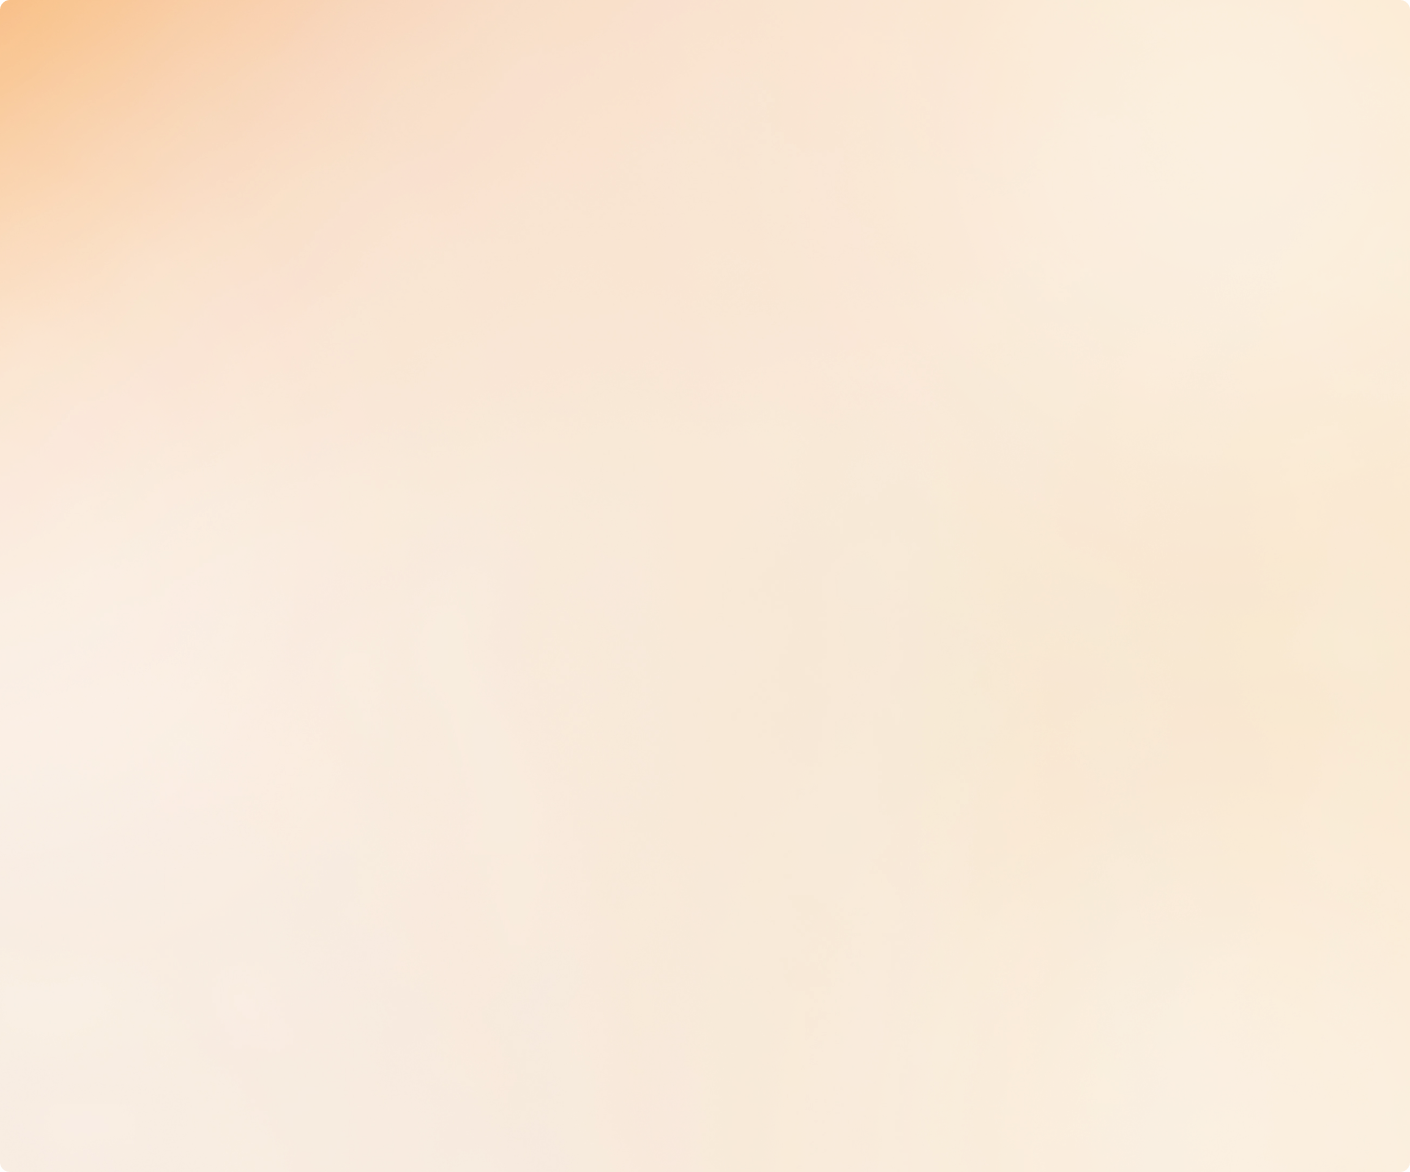
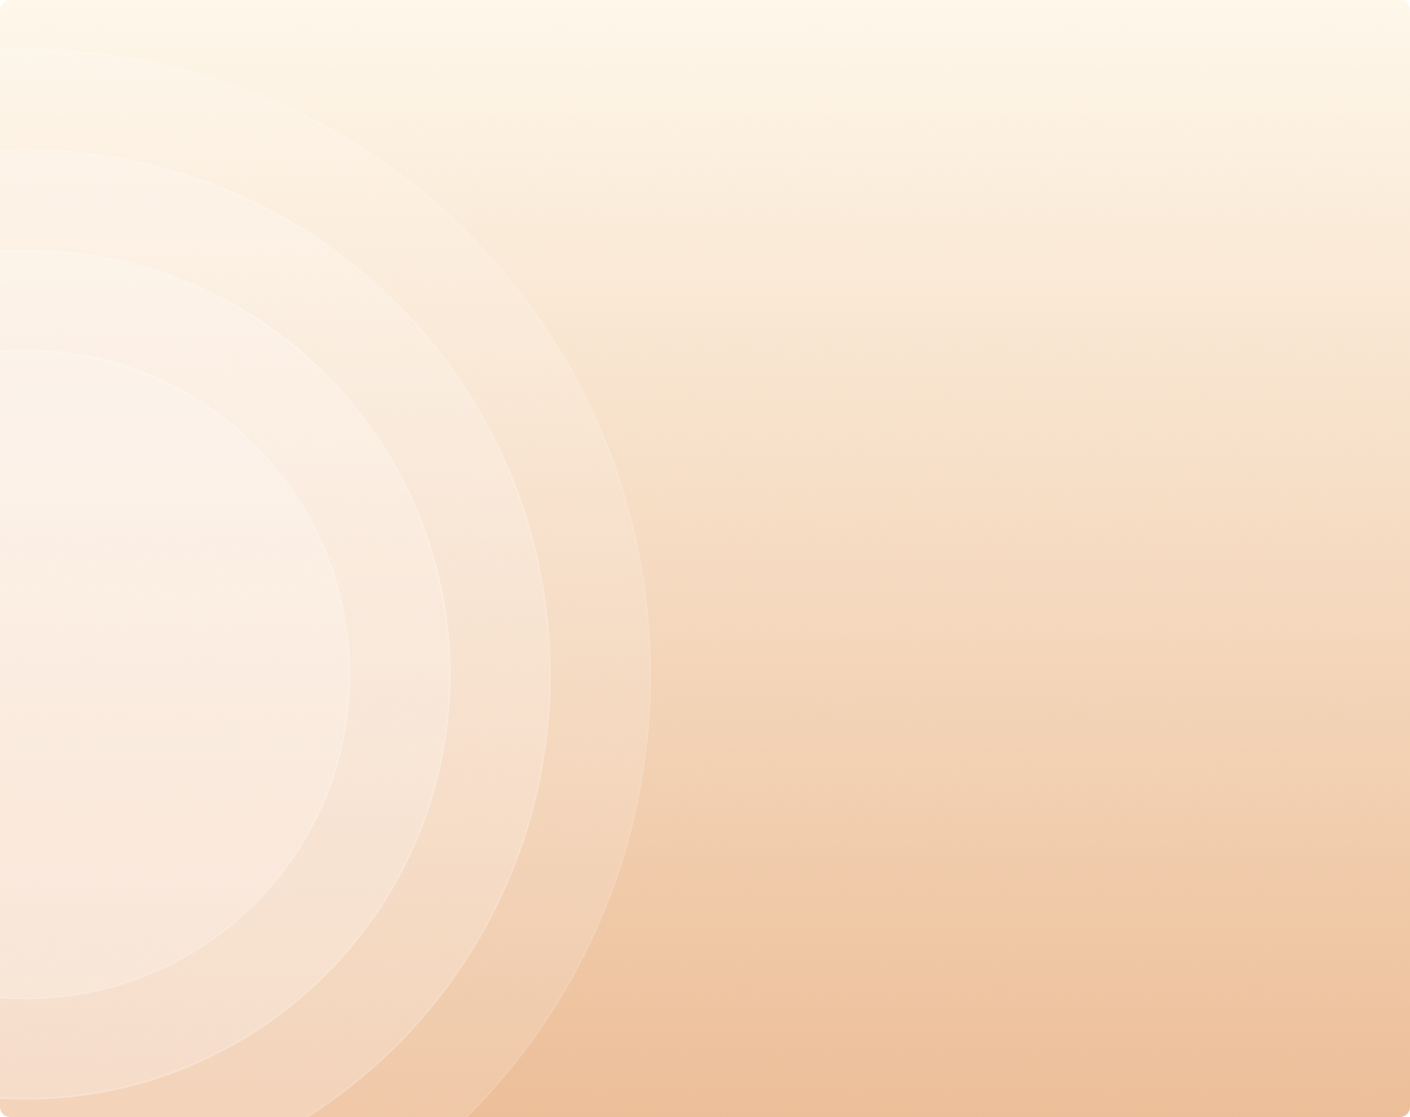
fixes

diff --git a/next/src/components/sections/why-premier-access/WhyPremierAccess.module.scss b/next/src/components/sections/why-premier-access/WhyPremierAccess.module.scss
@@ -23,6 +23,7 @@
 
     @media (max-width: 768px) {
        margin-bottom: 40px;
+       text-align: center;
     }
 
     strong {
@@ -51,6 +52,11 @@
 
     @media (max-width: 768px) {
         padding: 20px;
+        gap: 24px;
+    }
+
+    @media (max-width: 575px) {
+        align-items: center;
     }
 
     &.item1,
@@ -89,6 +95,15 @@
     }
 }
 
+.itemText {
+    color: var(--color-dark-green);
+    line-height: 1.37;
+
+    @media (max-width: 575px) {
+        text-align: center;
+    }
+}
+
 .itemImage {
     padding: 0;
 
@@ -98,6 +113,10 @@
         object-fit: cover;
         border-radius: 16px;
         overflow: hidden;
+    }
+
+    @media (max-width: 768px) {
+        height: 265px;
     }
 }
 

diff --git a/next/src/app/contact/ContactPage.module.scss b/next/src/app/contact/ContactPage.module.scss
@@ -2,10 +2,12 @@
     background: url('/contactBg.png');
     background-size: cover;
     background-repeat: no-repeat;
+    border-radius: 10px;
+    overflow: hidden;
 }
 
 .contact {
-    padding: 120px 0 60px;
+    padding: 65px 0 60px;
 
     @media (max-width: 768px) {
         padding: 20px 0 40px;
@@ -48,7 +50,7 @@
     }
 
     @media (max-width: 768px) {
-        padding: 20px;
+        padding: 30px 20px;
     }
 }
 
@@ -69,7 +71,7 @@
     margin-bottom: auto;
 
     @media (max-width: 1025px) {
-        margin-bottom: 30px;
+        margin-bottom: 40px;
     }
 }
 

diff --git a/next/src/components/sections/why-premier-access/WhyPremierAccess.js b/next/src/components/sections/why-premier-access/WhyPremierAccess.js
@@ -82,7 +82,7 @@ export default function WhyPremierAccess({ data }) {
                     animate="show"
                     custom={5}>
                     <a
-                        href="#"
+                        href="/contact"
                         className={`${styles.link} button-icon`}
                     >
                         <span className='button-icon-text'>Talk to our team</span>

diff --git a/next/src/components/sections/hero/Hero.module.scss b/next/src/components/sections/hero/Hero.module.scss
@@ -7,10 +7,15 @@
   border-radius: 10px;
   overflow: hidden;
   isolation: isolate;
+  background-image: url("/frame.png");
+  background-size: cover;
+  background-position: bottom center;
+  background-repeat: no-repeat;
 
   @media (max-width: 768px) {
     padding: 180px 0 45px;
     border-radius: 16px;
+    background-image: url("/frame_mob.png");
   }
 }
 

diff --git a/next/src/components/sections/graphic/Graphic.module.scss b/next/src/components/sections/graphic/Graphic.module.scss
@@ -36,7 +36,6 @@
 
 .graphicImage {
     width: 100%;
-    max-height: 715px;
     overflow: hidden;
 
     svg {
@@ -46,7 +45,6 @@
 
     @media (max-width: 768px) {
         margin-top: 40px;
-        max-height: unset;
     }
 
     .desktop {
